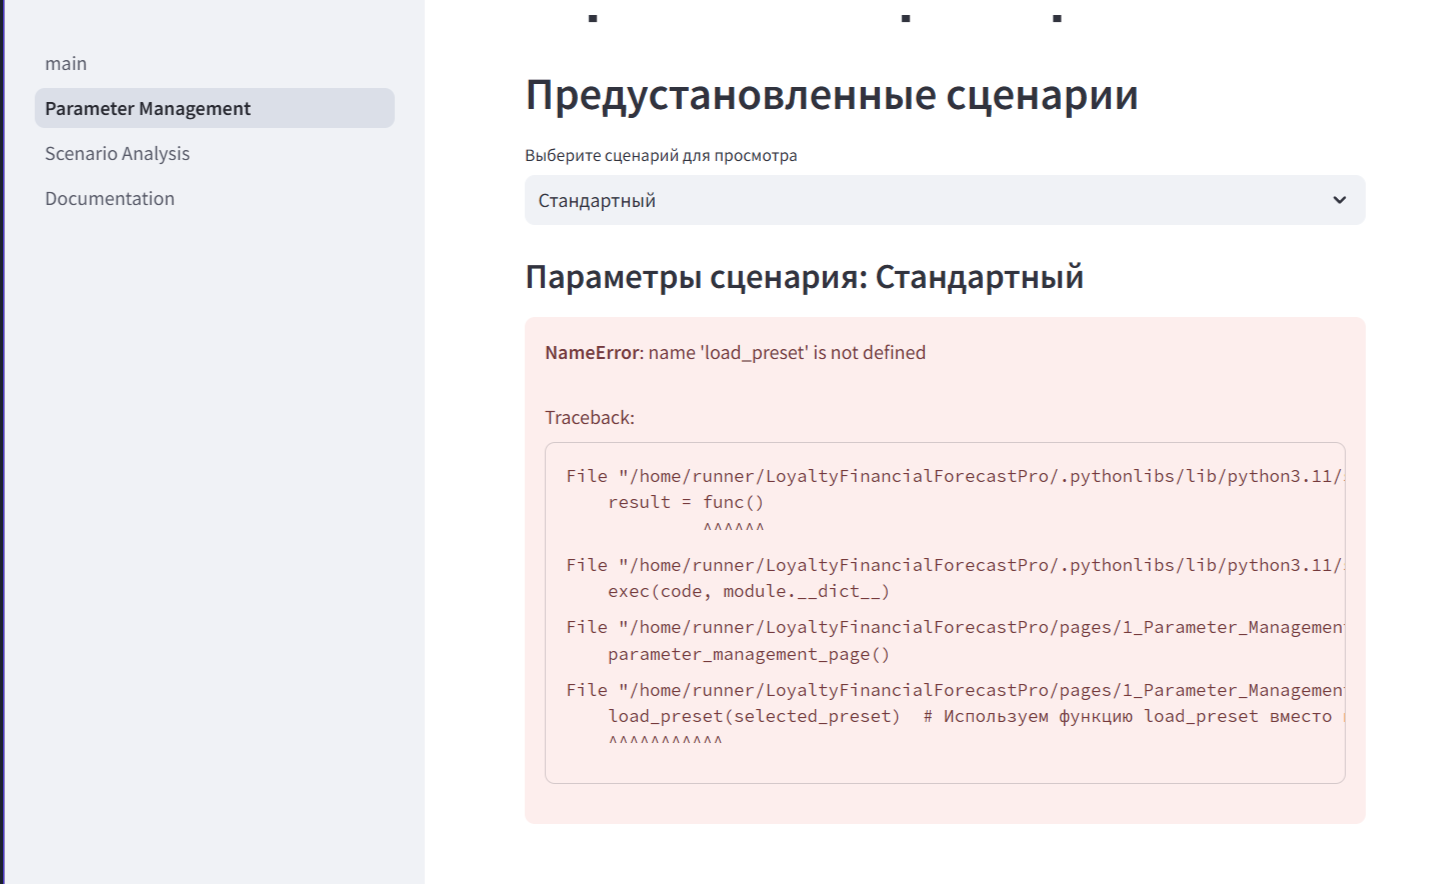
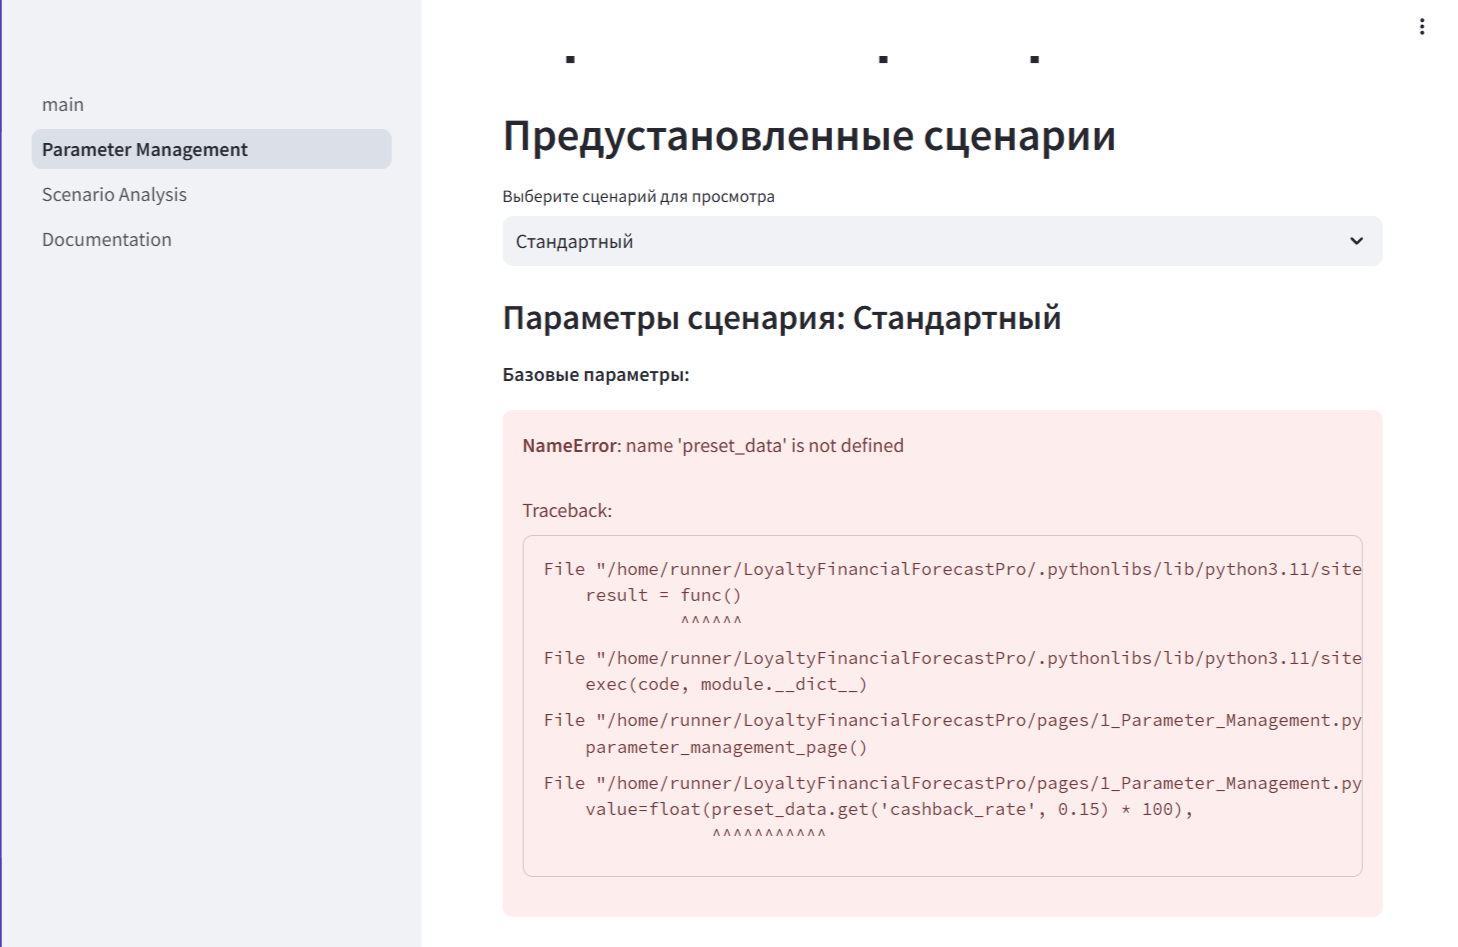
Agent query: Пожалуйста, проверьте: 1) Загружаются ли теперь корректно параметры при выборе пессимистичного сценария? 2) Начинаются ли премиум подписки с 12-го месяца?
Refactor financial model and parameter management to remove hardcoded values, using preset data instead.

Screenshot: https://storage.googleapis.com/screenshot-production-us-central1/f5e095a3-f525-4b15-8ae3-3ce0f434ca6e/dc0085d5-9c38-46c6-a29e-8b5dbf6879f9.jpg

diff --git a/models/financial_model.py b/models/financial_model.py
@@ -85,26 +85,26 @@ class FinancialModel:
                     
                     # Расчет выручки от базовой подписки
                     if basic_sub_active:
-                        basic_subscribers = active_users * st.session_state.get('basic_subscription_conversion', 0.05)
-                        user_subscription_revenue += basic_subscribers * st.session_state.get('basic_subscription_price', 299)
+                        basic_subscribers = active_users * st.session_state['basic_subscription_conversion']
+                        user_subscription_revenue += basic_subscribers * st.session_state['basic_subscription_price']
                     
                     # Расчет выручки от премиум подписки
                     if premium_sub_active:
-                        premium_subscribers = active_users * st.session_state.get('premium_subscription_conversion', 0.02)
-                        user_subscription_revenue += premium_subscribers * st.session_state.get('premium_subscription_price', 999)
+                        premium_subscribers = active_users * st.session_state['premium_subscription_conversion']
+                        user_subscription_revenue += premium_subscribers * st.session_state['premium_subscription_price']
                     
                     # Расчет выручки от бизнес-подписок
                     business_subscription_revenue = 0
                     if business_sub_active:
                         business_subscribers = (stores + restaurants) * 0.15  # 15% бизнес-клиентов
-                        business_subscription_revenue = business_subscribers * st.session_state.get('business_subscription_price', 4999)
+                        business_subscription_revenue = business_subscribers * st.session_state['business_subscription_price']
                     
                     # Общая выручка от подписок
                     subscription_revenue = user_subscription_revenue + business_subscription_revenue
                     
                     # Детализация выручки от подписок для структуры доходов
-                    basic_revenue = basic_subscribers * st.session_state.get('basic_subscription_price', 299) if basic_sub_active else 0
-                    premium_revenue = premium_subscribers * st.session_state.get('premium_subscription_price', 999) if premium_sub_active else 0
+                    basic_revenue = basic_subscribers * st.session_state['basic_subscription_price'] if basic_sub_active else 0
+                    premium_revenue = premium_subscribers * st.session_state['premium_subscription_price'] if premium_sub_active else 0
                     
                     subscription_details = {
                         'basic': basic_revenue,

diff --git a/pages/1_Parameter_Management.py b/pages/1_Parameter_Management.py
@@ -24,7 +24,8 @@ def parameter_management_page():
     
     if selected_preset:
         st.subheader(f"Параметры сценария: {scenario_names[selected_preset]}")
-        load_preset(selected_preset)  # Используем функцию load_preset вместо прямого присваивания
+        preset_data = PRESETS[selected_preset]
+        load_preset(selected_preset)
         
         col1, col2 = st.columns(2)
         
@@ -32,11 +33,12 @@ def parameter_management_page():
             st.markdown("**Базовые параметры:**")
             
             # Добавляем параметры кэшбэка и использования баллов
+            current_cashback = preset_data.get('cashback_rate', 0.15)
             st.session_state['cashback_rate'] = st.slider(
                 "Процент кэшбэка",
                 min_value=0.0,
                 max_value=50.0,
-                value=float(preset_data.get('cashback_rate', 0.15) * 100),
+                value=float(current_cashback * 100),
                 format="%.1f%%",
                 help="Процент кэшбэка от суммы покупки",
                 key=f"cashback_{selected_preset}"
